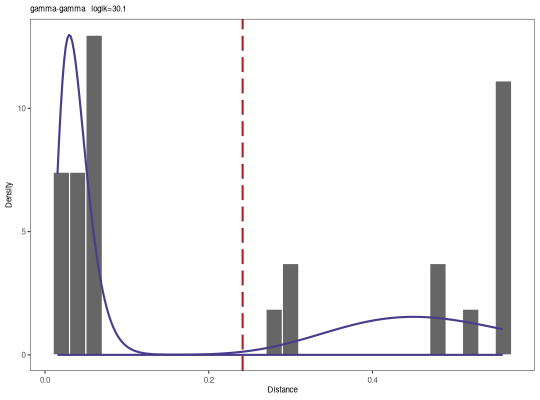
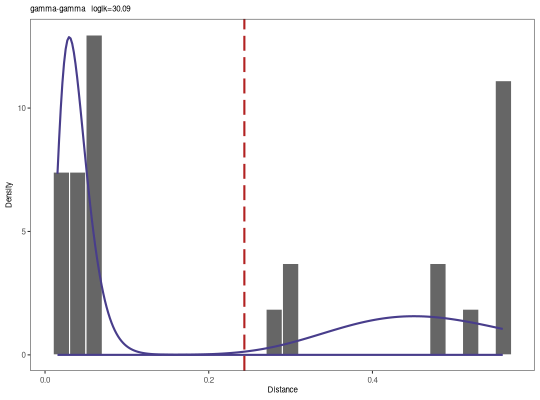
[skip ci] Auto-render docs.

diff --git a/docs/vignettes/Shmulate-Vignette.md b/docs/vignettes/Shmulate-Vignette.md
@@ -30,7 +30,7 @@ shmulateSeq(sequence, numMutations=6)
 ```
 
 ```
-## [1] "NGATGTGACGACACGGCCGTTTATTACTGTGCCAGAAGTA.TTTG"
+## [1] "NGATGTGACGACACGGCCGTGCATTACTGCGCGAGAGAAA.TGAA"
 ```
 
 ``` r
@@ -39,7 +39,7 @@ shmulateSeq(sequence, numMutations=0.2, frequency=TRUE)
 ```
 
 ```
-## [1] "NAACTCGACGGCACGGCCGTTTGTTACTGTGCGGGAGATT.TTCA"
+## [1] "NTATCTGACCATTCGGCCGTTTTTTACTGTGTGCGCGAGA.TTTA"
 ```
 
 ``` r
@@ -48,7 +48,7 @@ shmulateSeq(sequence, numMutations=4, targetingModel=MK_RS5NF)
 ```
 
 ```
-## [1] "NGATCTGACGATACGGCCGTGTATTATTGTACGAGAAATA.TTTA"
+## [1] "NGATCTGACGACACGGCCGTGTATTATTGTGCTAGAGCTA.TCTA"
 ```
 
 ## Simulate mutations in a lineage tree
@@ -72,19 +72,21 @@ graph <- ExampleTrees[[17]]
 sequence <- "NGATCTGACGACACGGCCGTGTATTACTGTGCGAGAGATAGTTTA"
 
 # Simulate using the default HH_S5F targeting model
+# Setting a seed for reproducibility of the example
+set.seed(321)
 shmulateTree(sequence, graph)
 ```
 
 ```
 ##             name                                      sequence distance
 ## 1      Inferred1 NGATCTGACGACACGGCCGTGTATTACTGTGCGAGAGATAGTTTA        0
-## 2 GN5SHBT07JDYW5 NGATCTGACGACACGGCCGTGTACTACCGTGCGAGAGATAGTTTA        2
-## 3 GN5SHBT03EP4KC NAATCTGACAACACGGCCGTGTACTACCGTGCGGGAGATAGTTTA        3
-## 4 GN5SHBT01AKANC NGATCTGACGACACGGCCGTGTATTATTGTGTGGGAGATCGTTTA        4
-## 5 GN5SHBT01A3SFZ NGAGGAGACGACACGGCCGTGTACTTCCGAGAGAGAGATAGTTTA        6
-## 6 GN5SHBT08HUU7M NAATCTGACAACACGGCCGTGTACCACCGTGCGGGATATACTTTA        3
-## 7 GN5SHBT04CEA6I NGATCTGACGACAAGGCCGTGTACTACCGTGCGAGAGATAGTTTA        1
-## 8 GN5SHBT06IXJIH NTATCTGACGACACGGCCGTGTACTACCGTGCGAGAGATAGTTTA        1
+## 2 GN5SHBT07JDYW5 NGAACTGACGACACGGTCGTGTATTACTGTGCGAGAGATAGTTTA        2
+## 3 GN5SHBT03EP4KC NGAGCTGACGACACGGTCGTGCGTTACTGTGCGAGAGATAGTTTA        3
+## 4 GN5SHBT01AKANC NGATGTGACGACACGGCCGTGTCTTGCTGTGCGAGAGATACTTTA        4
+## 5 GN5SHBT01A3SFZ NAGACTGACGACACGGTCGTGTTTTACTGTGCGAGCGAAAGCTTA        6
+## 6 GN5SHBT08HUU7M NGAGCTAACGACACGGTCGTGCGTGACTGTGCGAGGGATAGTTTA        3
+## 7 GN5SHBT04CEA6I NGAGCTGACGACACGGTCGTGTATTACTGTGCGAGAGATAGTTTA        1
+## 8 GN5SHBT06IXJIH NGAACTGACGACACGGTCGTGTATTACTGTGCGAGAGATAGTTTG        1
 ```
 
 It is possible to exclude certain specified nodes from being considered as the MRCA and from being included as part of the simulation. To specify such nodes, use the `field` argument to indicate which annotation field in `vertex_attr(graph)` contains information relevant to deciding which nodes to exclude, and the `exclude` argument to indicate the value in the annotation field that nodes to be excluded carry.
@@ -114,17 +116,18 @@ plot(graph, layout=layout_as_tree, edge.arrow.mode=0, vertex.label.cex=0.75)
 # The nodes "Germline" and "Inferred1" are thus excluded
 # As a corollary, "GN5SHBT01AKANC", the offspring of "Inferred1", is also excluded
 # In this case, "GN5SHBT07JDYW5" is then taken to be the MRCA
+set.seed(543) # for reproducibility of the example
 shmulateTree(sequence, graph, field="sample_id", exclude=NA)
 ```
 
 ```
 ##             name                                      sequence distance
 ## 1 GN5SHBT07JDYW5 NGATCTGACGACACGGCCGTGTATTACTGTGCGAGAGATAGTTTA        0
-## 2 GN5SHBT03EP4KC NAATCTGACGACACGGCCGTCTATTGCTGTGCGAGAGATAGTTTA        3
-## 3 GN5SHBT01A3SFZ NGATGTGACGACACGTCTGTGTATTACTCTGCGAGAGCCAGTTTA        6
-## 4 GN5SHBT08HUU7M NAATCTGACGACACGGCCGCCTTTTGCTGTGCGAGAGATAATTTA        3
-## 5 GN5SHBT04CEA6I NGATCTGACGACACGGCCGTGTCTTACTGTGCGAGAGATAGTTTA        1
-## 6 GN5SHBT06IXJIH NGACCTGACGACACGGCCGTGTATTACTGTGCGAGAGATAGTTTA        1
+## 2 GN5SHBT03EP4KC NGATCTGACGACACGGCCGTGTATTTCTGGGCGAGAGATAGTTTT        3
+## 3 GN5SHBT01A3SFZ NGATCTGACGACACGGCCGTGGTCTGTTGTGCGAGAGATAGTTCA        6
+## 4 GN5SHBT08HUU7M NCATCTGACGGCACGGCCGTGTATTTTTGGGCGAGAGATAGTTTT        3
+## 5 GN5SHBT04CEA6I NGATCTGACGACACGGCCGTGTATTACTGTGCGAGAGATAGTTCA        1
+## 6 GN5SHBT06IXJIH NGATCTGACGCCACGGCCGTGTATTACTGTGCGAGAGATAGTTTA        1
 ```
 
 It is also possible to add a proportional number of mutations to the immediate offsprings of the MRCA based on the fraction of the nucleotide sequence that is within the junction region. This is achieved via the optional `junctionWeight` argument, to be supplied as a numeric value between `0` and `1`.
@@ -142,17 +145,18 @@ plot(graph, layout=layout_as_tree, edge.arrow.mode=0, vertex.label.cex=0.75)
 
 ``` r
 # Add 20% mutation rate to the immediate offsprings of the MRCA
+set.seed(798) # for reproducibility of the example
 shmulateTree(sequence, graph, junctionWeight=0.2)
 ```
 
 ```
 ##             name                                      sequence distance
 ## 1      Inferred1 NGATCTGACGACACGGCCGTGTATTACTGTGCGAGAGATAGTTTA        0
-## 2 GN5SHBT07JDYW5 NGATGTGACGACACGGCCGTGGATTACTGTGCGAGAGATAGTTTA        2
-## 3 GN5SHBT03EP4KC NGAAGTGACGACACGGCCGTGGATTTCTGTGCGGGAGATAGTTTA        3
-## 4 GN5SHBT01AKANC NGATCTGACGACACGGCCGCGTATCATTGTGCGAGCGATAATTTA        5
-## 5 GN5SHBT01A3SFZ NGACGCAACGACACGGCCGTGGATTGTTGTGCGAGAGATGGTTTA        6
-## 6 GN5SHBT08HUU7M NGAAGTGACGACACGGGCGTGGATTTCTGTGCGGGAGATAATTTG        3
-## 7 GN5SHBT04CEA6I NGATGTGACGACACGGCCGTGGATTACTGTGCGGGAGATAGTTTA        1
-## 8 GN5SHBT06IXJIH NGGTGTGACGACACGGCCGTGGATTACTGTGCGAGAGATAGTTTA        1
+## 2 GN5SHBT07JDYW5 NGATCTGACGACACGGCCGTGTATTACTTTGCGAGAGATAATTTA        2
+## 3 GN5SHBT03EP4KC NGATCTGACGACACGGCCGTCTATCACTTTGCGAGAGATAATCTA        3
+## 4 GN5SHBT01AKANC NCATCTGACGACACGGCCGTATATTACTGTGAGAGAGATATTATA        5
+## 5 GN5SHBT01A3SFZ NAGTCTGACGACACGGCCTTGTATTACTTAGCGAGAGTTAAATTA        6
+## 6 GN5SHBT08HUU7M NGATCTGACGACACGGCCGTCTATCACTTTGCGAGAGATGATTTT        3
+## 7 GN5SHBT04CEA6I NGATCTGACGACACGGCCGTGTTTTACTTTGCGAGAGATAATTTA        1
+## 8 GN5SHBT06IXJIH NGATCTGACGACACGGCCGTGTATCACTTTGCGAGAGATAATTTA        1
 ```

diff --git a/docs/vignettes/DistToNearest-Vignette.md b/docs/vignettes/DistToNearest-Vignette.md
@@ -293,7 +293,7 @@ print(output)
 ```
 
 ```
-## [1] 0.119225
+## [1] 0.1175018
 ```
 
 **Note:** The shape of histogram plotted by `plotGmmThreshold` is

diff --git a/docs/topics/findThreshold.md b/docs/topics/findThreshold.md
@@ -151,7 +151,7 @@ print(output)
 
 
 ```
-[1] 0.24139
+[1] 0.2435087
 
 ```
 
